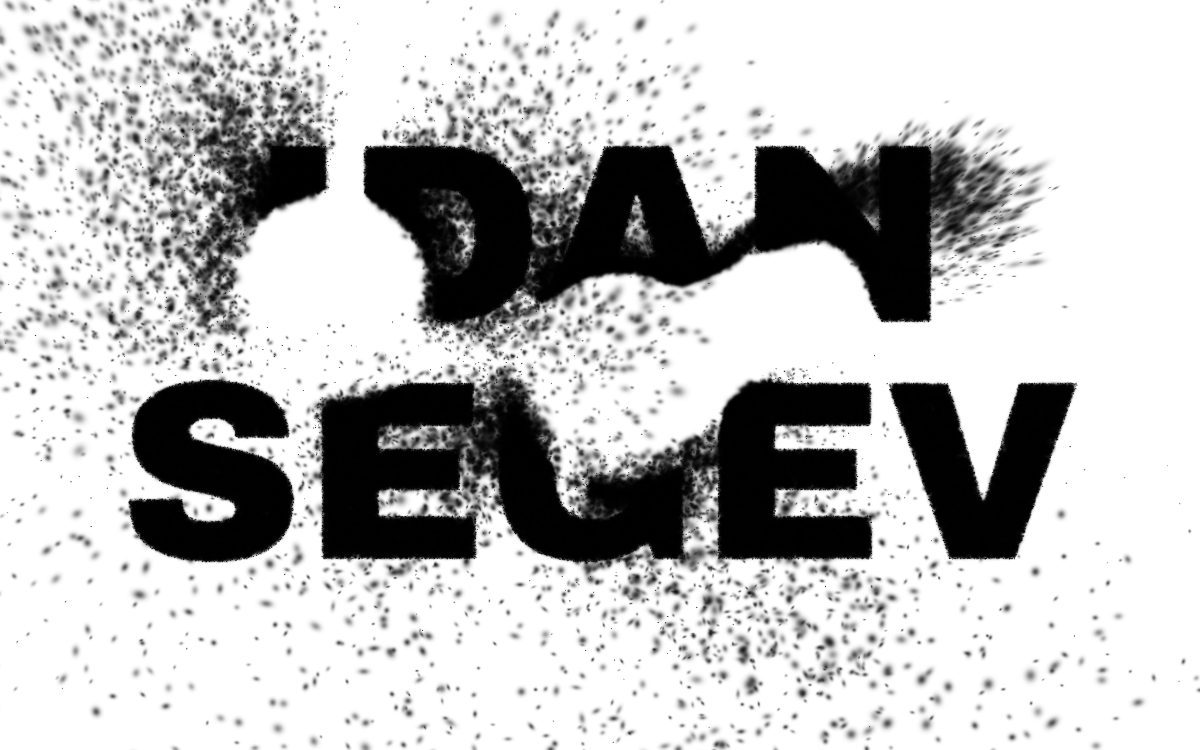
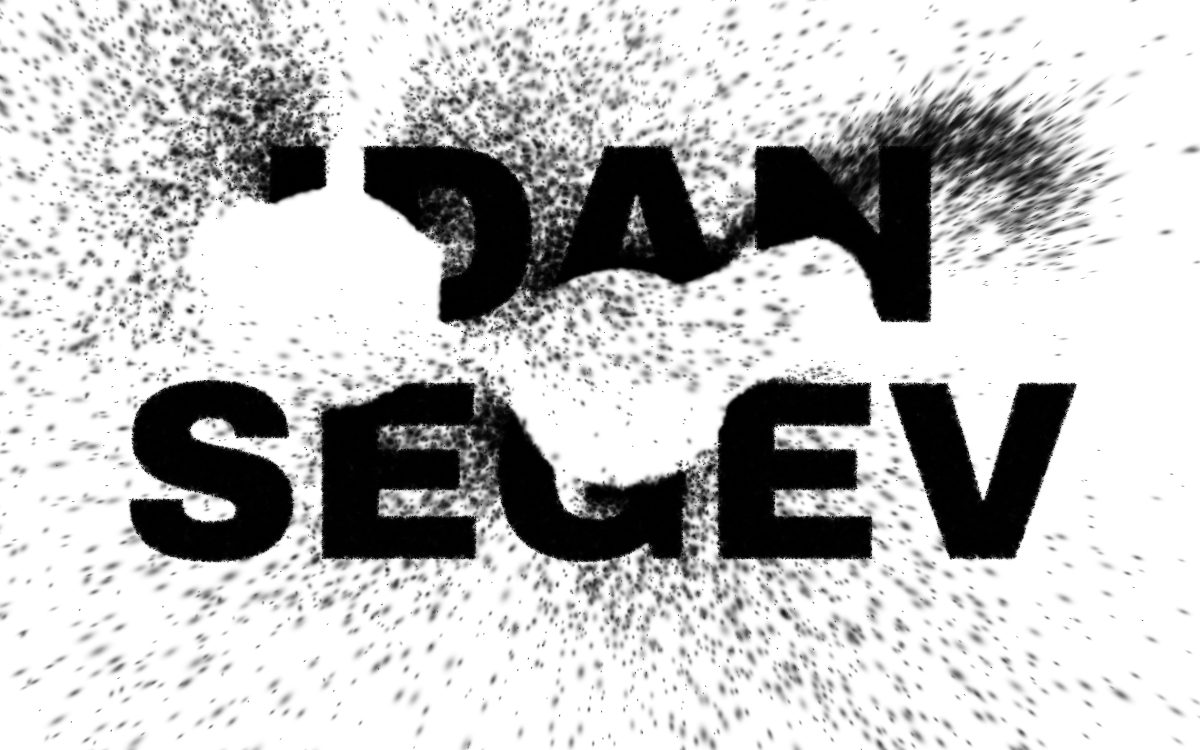
Splat type: Idan's tuned defaults (breath off, force 2400, back 0.5, grain 2.5)

diff --git a/docs/posters/prototypes/splat-type.html b/docs/posters/prototypes/splat-type.html
@@ -45,12 +45,12 @@ button:focus-visible, input:focus-visible { outline: 2px solid var(--ink); outli
 <div class="foot"><span><b>Splat type</b> &nbsp;draft</span><button id="gear" type="button" aria-expanded="false" aria-controls="sheet">Settings</button></div>
 <div class="sheet" id="sheet" hidden>
   <label class="row tog" for="settle"><span>Dust settles back into the letters</span><input type="checkbox" id="settle" checked></label>
-  <label class="row tog" for="breath"><span>A passing pointer breathes on it</span><input type="checkbox" id="breath" checked></label>
+  <label class="row tog" for="breath"><span>A passing pointer breathes on it</span><input type="checkbox" id="breath"></label>
   <label class="row tog" for="colour"><span>Colour (the rare easter egg)</span><input type="checkbox" id="colour"></label>
   <label class="row" for="reach"><span>Reach of a touch</span><output id="reachO"></output><input type="range" id="reach" min="60" max="420" step="5" value="115"></label>
-  <label class="row" for="force"><span>Force</span><output id="forceO"></output><input type="range" id="force" min="100" max="2400" step="20" value="2100"></label>
-  <label class="row" for="back"><span>How fast it settles</span><output id="backO"></output><input type="range" id="back" min="0.2" max="6" step="0.1" value="1.2"></label>
-  <label class="row" for="grain"><span>Splats (fewer, coarser ↔ more, finer)</span><output id="grainO"></output><input type="range" id="grain" min="0.3" max="2.5" step="0.05" value="1.85"></label>
+  <label class="row" for="force"><span>Force</span><output id="forceO"></output><input type="range" id="force" min="100" max="2400" step="20" value="2400"></label>
+  <label class="row" for="back"><span>How fast it settles</span><output id="backO"></output><input type="range" id="back" min="0.2" max="6" step="0.1" value="0.5"></label>
+  <label class="row" for="grain"><span>Splats (fewer, coarser ↔ more, finer)</span><output id="grainO"></output><input type="range" id="grain" min="0.3" max="2.5" step="0.05" value="2.5"></label>
   <div class="acts"><button id="reset" type="button">Back to the letters</button><button id="copy" type="button">Copy settings</button></div>
 </div>
 
@@ -60,9 +60,9 @@ button:focus-visible, input:focus-visible { outline: 2px solid var(--ink); outli
   const gl = cv.getContext('webgl2', { antialias: false, premultipliedAlpha: true, alpha: false });
   if (!gl) { document.querySelector('.foot span').textContent = 'This needs WebGL2.'; return; }
   const $ = (id) => document.getElementById(id);
-  const P = { settle: true, breath: true, colour: false, reach: 115, force: 2100, back: 1.2, grain: 1.85 };
-  try { Object.assign(P, JSON.parse(localStorage.getItem('splat-type-v2') || '{}')); } catch (e) { /* no storage: defaults */ }
-  const save = () => { try { localStorage.setItem('splat-type-v2', JSON.stringify(P)); } catch (e) { /* fine */ } };
+  const P = { settle: true, breath: false, colour: false, reach: 115, force: 2400, back: 0.5, grain: 2.5 };
+  try { Object.assign(P, JSON.parse(localStorage.getItem('splat-type-v3') || '{}')); } catch (e) { /* no storage: defaults */ }
+  const save = () => { try { localStorage.setItem('splat-type-v3', JSON.stringify(P)); } catch (e) { /* fine */ } };
   const reduced = matchMedia('(prefers-reduced-motion: reduce)').matches;
 
   // ---------- shaders: one soft gaussian per splat, stretched along its flight ----------

diff --git a/src/posters/splat-type.js b/src/posters/splat-type.js
@@ -1,7 +1,7 @@
 // Splat type: the name is thousands of soft, translucent splats, each a gaussian smear (as in gaussian splatting) sized to fit
 // inside the letter, so together they read as solid type with a slightly painterly, grainy body. Press and the dust near it is
 // thrown outward (a few grains far, most a little); drag and it is pushed along the stroke, stretched into streaks while it
-// flies; a mouse moving over it only breathes on it. Then it drifts home, a spring each, and the letters close up again.
+// flies; a mouse moving over it can breathe on it (off by default). Then it drifts home, a spring each, and the letters close up again.
 //
 // Under the picture (WebGL2): one instanced quad per splat; the vertex shader stretches each along its flight and fades it a
 // little with speed; the fragment shader is the gaussian, premultiplied, blended over the page. The physics is a spring
@@ -17,7 +17,7 @@ import { createReveal, grid, corners, label, titleBlock, ink as rvInk } from './
 import { pressTracker, DOUBLE_MS, REFORM_DELAY_MS } from '../gestures.js';
 
 const FACE = '900 100px Archivo, "Arial Black", "Helvetica Neue", sans-serif';
-const DEF = { settle: 1, breath: 1, reach: 115, force: 2100, back: 1.2, grain: 1.85 };
+const DEF = { settle: 1, breath: 0, reach: 115, force: 2400, back: 0.5, grain: 2.5 };
 
 const VS = `#version 300 es
 layout(location=0) in vec2 aC;

diff --git a/docs/INTERACTIONS.md b/docs/INTERACTIONS.md
@@ -133,7 +133,7 @@ Hover the top-left corner and a quiet "Posters" appears (on a touch screen it is
 |---|---|
 | Tap / press | a burst: the splats near it are thrown outward, most a little and a few far (reach 115 px; under 250 ms, 8 px is a tap) |
 | Drag | pushes the dust along the stroke; it stretches into streaks while it flies |
-| Hover (mouse) | a breath: a light push from a passing pointer; nothing on touch |
+| Hover (mouse) | a breath: a light push from a passing pointer (off by default; a toggle in settings); nothing on touch |
 | Hold | nothing more than the press |
 | Double tap (empty) | pulls everything home now (a beat later, so a third tap can still mean reveal) |
 | Three taps (reveal) | page inverts; a sample of the grains at home, and where the thrown ones are |
@@ -213,6 +213,21 @@ Hover the top-left corner and a quiet "Posters" appears (on a touch screen it is
 | Self-demo | none beyond the writing |
 | Reduced motion | the name is written and dried in one go; nothing moves until touched |
 | Colour | its own, on every drag (each press the next colour of the page's palette); the writing stays black |
+
+## Torn (published 25 Oct 2026)
+
+| | Torn |
+|---|---|
+| Hover (mouse) | the moving pointer pushes air at the cloth: it sways and flutters out of the page |
+| Tap | pulls out the nearest peg (a beat later, so a double or triple tap does not): the letter swings down from the rest |
+| Tap on background | nothing, unless a peg or a letter is within about half a cap height |
+| Hold | takes hold of the cloth (250 ms) |
+| Drag | pulls the cloth; pull hard and it tears along the line of most stress, and the pieces fall and pile on the floor |
+| Double tap | the floor opens, the old cloth falls away and a fresh set comes down on its pegs (a beat later, so a third tap can still mean reveal) |
+| Three taps (reveal) | every thread, heavier the harder it is pulled, with the peg and tear counts |
+| Intro | the name comes down on its pegs once on load; under reduced motion it is simply hanging |
+| Colour | the framework's colour pass, on the first press |
+| Multi-touch | one pointer |
 
 ## In the pipeline (draft)
 
